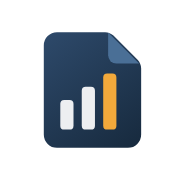
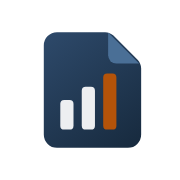
Accent: strict two-tone system (#B45309 primary, #FEF3C7 primary-light), no other amber

Changed region(s): [[0.5556, 0.3889, 0.6667, 0.7222]]

diff --git a/src/styles/abstracts/_tokens.scss b/src/styles/abstracts/_tokens.scss
@@ -7,11 +7,15 @@
 // client approved (2026-10-30) in place of the skill's warm ivory and warm borders.
 $navy: #20364f;
 $navy-hover: #172a3e;
-// Burnt amber, the platform's one accent (2026-11-01): #B45309, its dark #92400E, its light
-// ground #FEF3C7. The token keeps the name "copper" so every component follows it; warnings use
-// the very same family, so accent and caution never show two different oranges. Navy leads.
-$copper: #b45309; // 5:1 on white: fills, text, icons, active edges
-$copper-deep: #92400e; // hover/pressed and dark text (7.1:1 on white)
+// Two-tone accent (2026-11-01, strict): the platform has exactly two accent colours and no other
+// amber, orange or yellow anywhere —
+//   $primary        #B45309  strong: emphasis text, badges, active edges, buttons, icons (5:1 on white)
+//   $primary-light  #FEF3C7  soft: badge and alert grounds, faint highlights (and the accent on navy)
+// Warnings use the same two. Older token names (copper, warn, chrome-mark…) all point here.
+$primary: #b45309;
+$primary-light: #fef3c7;
+$copper: $primary;
+$copper-deep: $primary;
 $white: #ffffff;
 $ink: #202a35;
 $text: #536273;
@@ -60,14 +64,14 @@ $color-light: (
   "icon-soft": #e8edf4,
   "copper": $copper,
   "copper-hover": $copper-deep,
-  "copper-text": #92400e, // amber as text: 7.1:1 on white, 6.4:1 on copper-soft
-  "copper-soft": #fef3c7,
+  "copper-text": $primary, // 5:1 on white, 4.6:1 on the soft ground
+  "copper-soft": $primary-light,
   "focus": $focus,
   "focus-on-dark": $focus-on-dark,
   "ok": $success,
   "ok-soft": #e2f0e7,
   "warn": $warning,
-  "warn-soft": #fef3c7,
+  "warn-soft": $primary-light,
   "bad": $danger,
   "bad-soft": #f8e3e4,
   "info": $info,
@@ -78,7 +82,7 @@ $color-light: (
   "band-ink": $white,
   "band-muted": rgba(255, 255, 255, 0.72),
   "band-line": rgba(255, 255, 255, 0.16),
-  "band-copper": #f2a93b, // the amber lightened for the navy band (5.6:1): wordmark and stamps
+  "band-copper": $primary-light, // the accent on the navy band (12:1): wordmark and stamps
   "chrome": $navy,
   "chrome-ink": $white,
   "chrome-muted": rgba(255, 255, 255, 0.72),
@@ -86,7 +90,7 @@ $color-light: (
   "chrome-hover": rgba(255, 255, 255, 0.07),
   "chrome-active": rgba(255, 255, 255, 0.13),
   "chrome-tile": rgba(255, 255, 255, 0.1),
-  "chrome-mark": #f2a93b, // the amber lightened for the navy sidebar (5.6:1)
+  "chrome-mark": $primary-light, // the accent on the navy sidebar (12:1)
   "field-shadow": 0 1px 1px rgba($ink, 0.05),
   "shadow": rgba($ink, 0.16),
   "shadow-sheet-c": rgba($ink, 0.06),
@@ -121,15 +125,15 @@ $color-dark: (
   "icon": #9cbde6,
   "icon-soft": #1c2a3b,
   "field-shadow": 0 1px 2px rgba(0, 0, 0, 0.4),
-  "copper": #f59e0b,
-  "copper-hover": #fbbf24,
-  "copper-text": #fcd34d,
-  "copper-soft": #2b1f0b,
+  "copper": $primary-light,
+  "copper-hover": $primary-light,
+  "copper-text": $primary-light,
+  "copper-soft": rgba($primary, 0.22),
   "focus": #86b4ff,
   "ok": #78cfa0,
   "ok-soft": #15291f,
-  "warn": #f59e0b,
-  "warn-soft": #2d2410,
+  "warn": $primary-light,
+  "warn-soft": rgba($primary, 0.22),
   "bad": #f39197,
   "bad-soft": #351a1c,
   "info": #8dbbe8,

diff --git a/src/components/ui/firm-mark.tsx b/src/components/ui/firm-mark.tsx
@@ -23,7 +23,7 @@ export function FirmEmblem({ size = 40, tone = "light", className }: { size?: nu
       {/* the figures: two in the page's ink, the last one in terracotta */}
       <rect x="11" y="23" width="4" height="9" rx="1.2" fill={dark ? "#20364f" : "#ffffff"} fillOpacity={dark ? 0.85 : 0.92} />
       <rect x="17.5" y="19" width="4" height="13" rx="1.2" fill={dark ? "#20364f" : "#ffffff"} fillOpacity={dark ? 0.85 : 0.92} />
-      <rect x="24" y="15" width="4" height="17" rx="1.2" fill={dark ? "#b45309" : "#f2a93b"} />
+      <rect x="24" y="15" width="4" height="17" rx="1.2" fill="#b45309" />
     </svg>
   );
 }
